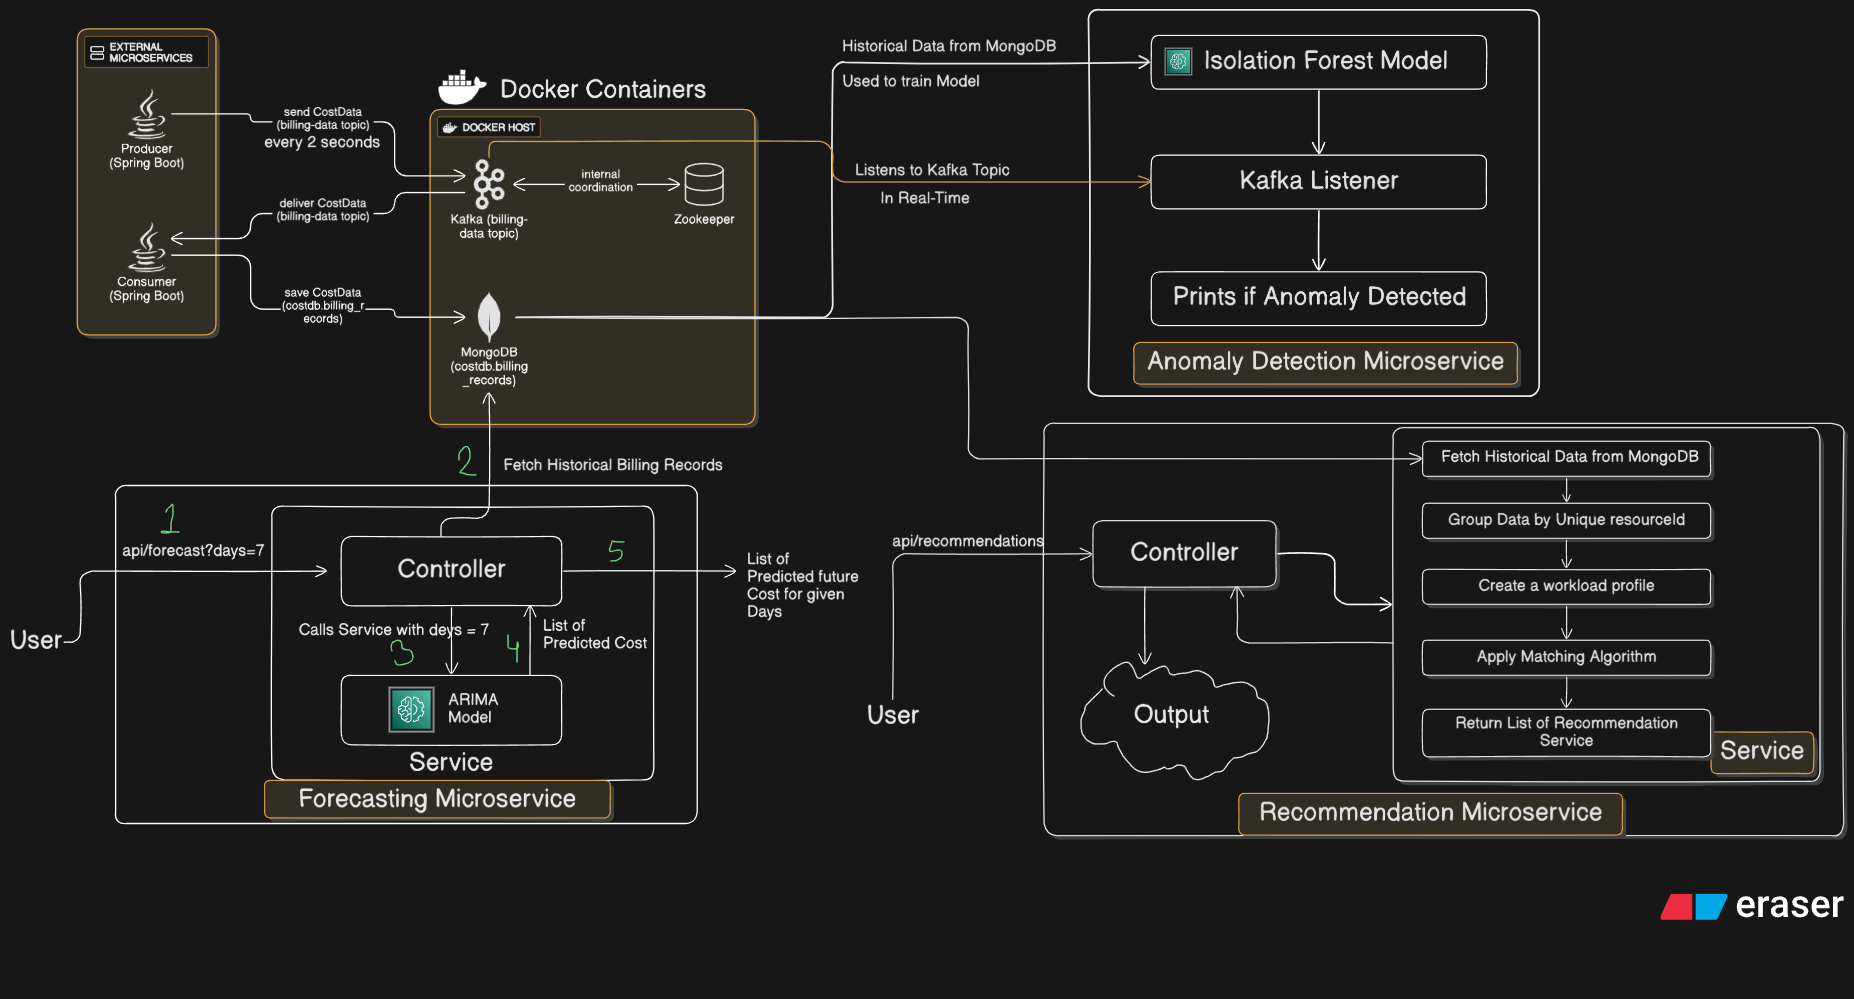
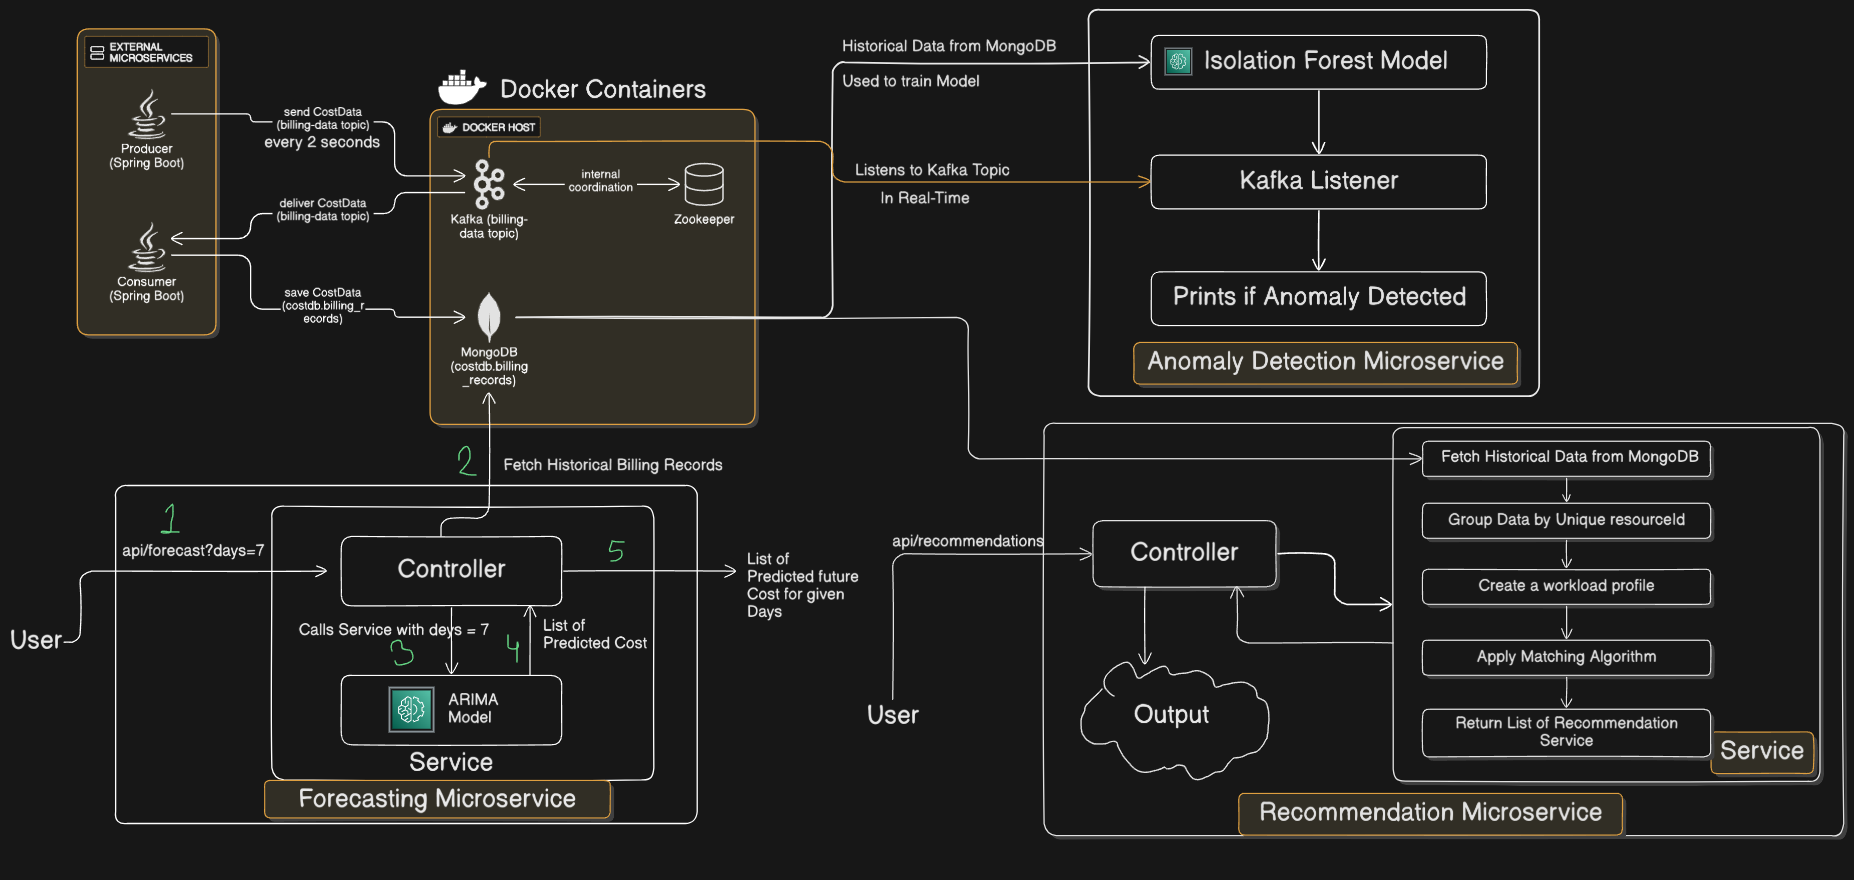
last readme commit

diff --git a/README.md b/README.md
@@ -46,8 +46,7 @@ It acts as an **intelligent financial advisor** for cloud infrastructure by prov
 
 ## System Architecture
 The system consists of **four independent microservices** communicating through a central **Kafka topic** and using **MongoDB** for persistence.
-
-*(Upload your LLD image to your GitHub repo and update the path below)*  
+ 
 ![System LLD](LLD.png)
 
 ---
@@ -56,14 +55,12 @@ The system consists of **four independent microservices** communicating through 
 
 ### Anomaly Detection in Action
 The system successfully identifies an anomalous cost spike in the real-time data stream.
-
-*(Upload your anomaly screenshot and update the path below)*  
+ 
 ![Anomaly Detected](Anomaly.png)
 
 ### Right-Sizing Recommendations
 The recommendation engine analyzes workload profiles and suggests more cost-effective instance types.
-
-*(Upload your recommendation screenshot and update the path below)*  
+ 
 ![Right-Sizing Recommendation](Recommendation.png)
 
 ---
